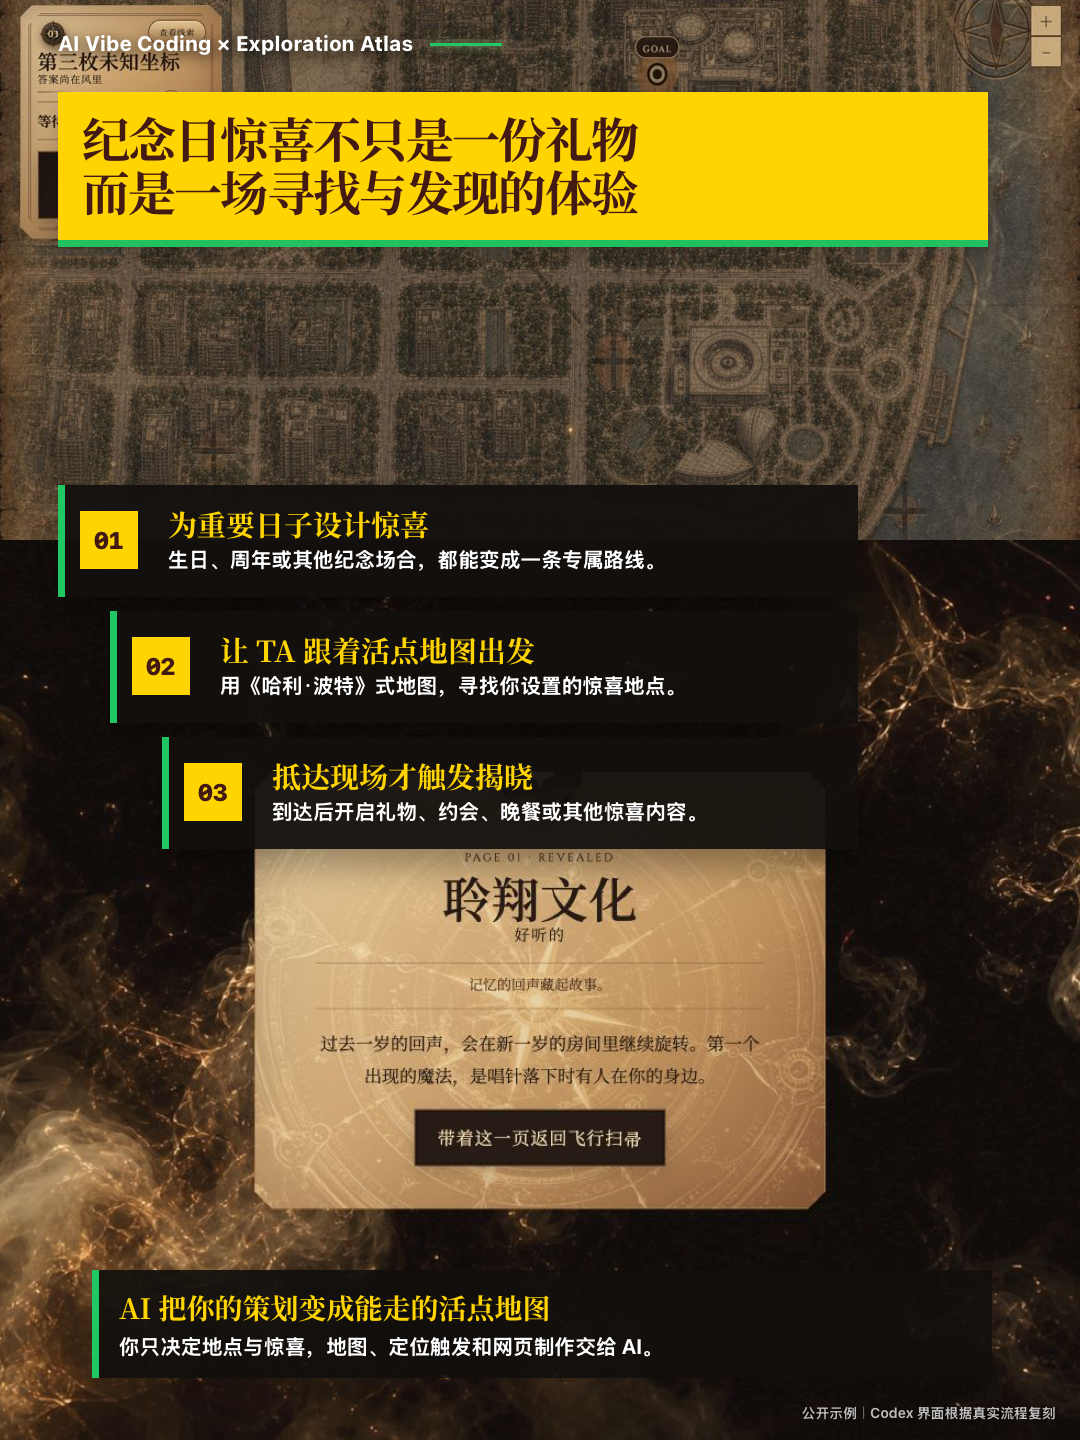
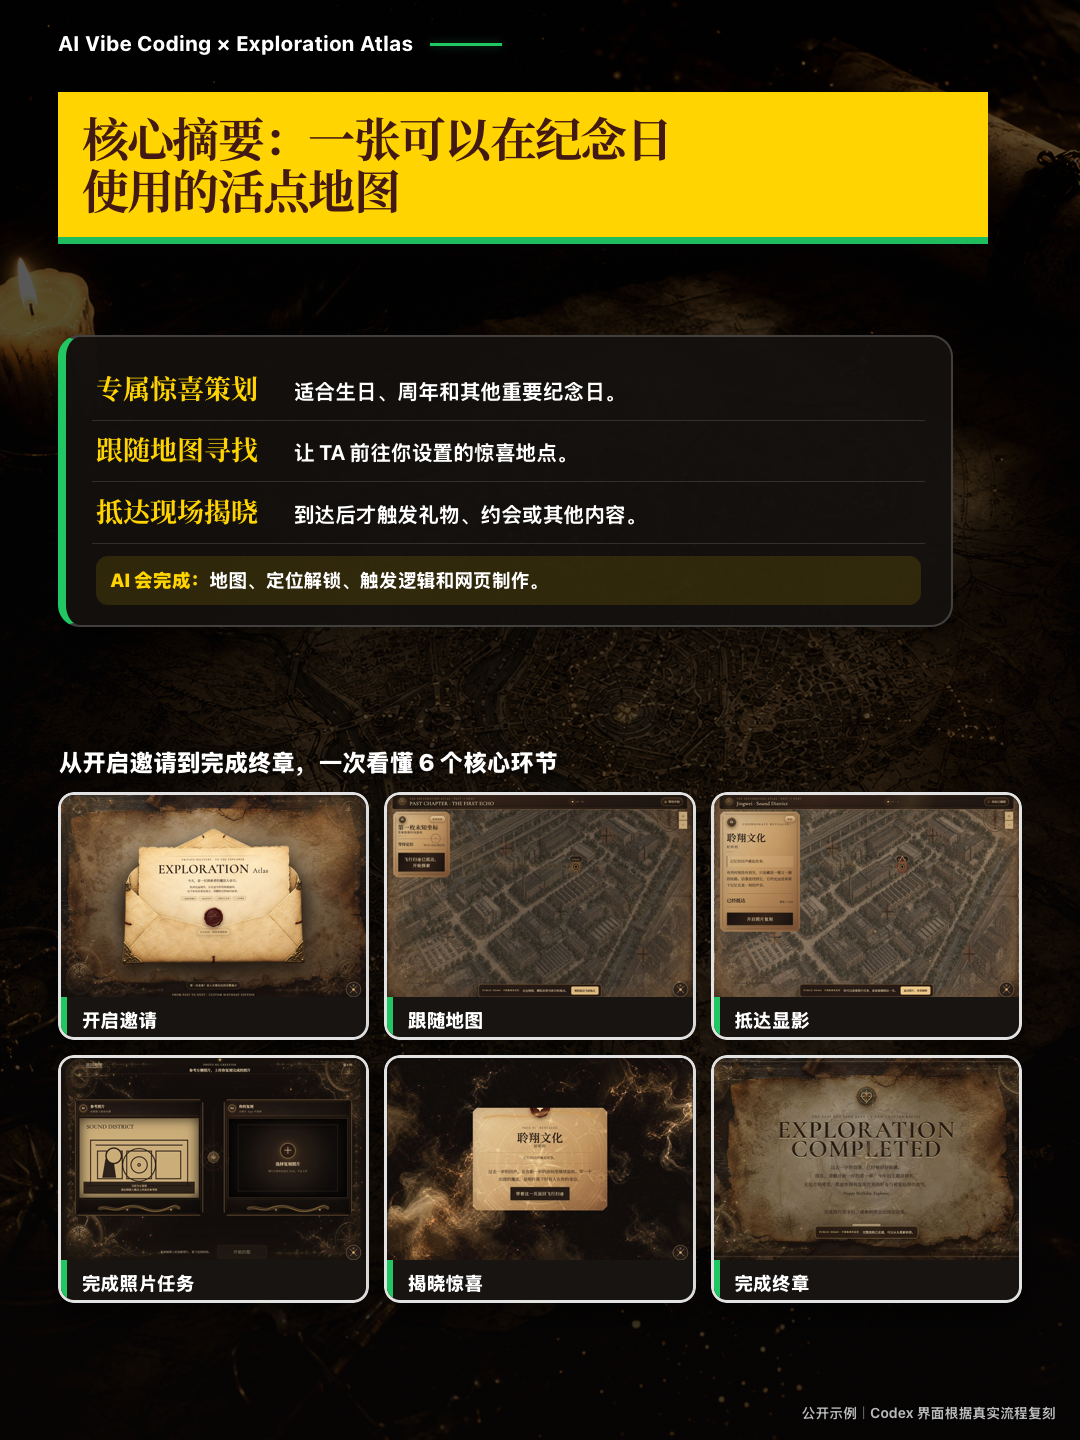
Summarize the six-part living map experience

diff --git a/docs/AI_VIBE_CODING_TUTORIAL.md b/docs/AI_VIBE_CODING_TUTORIAL.md
@@ -18,11 +18,11 @@
 
 ![开源活点地图教程封面](tutorial/01-cover.png)
 
-## 02｜理解它能带来什么
+## 02｜核心摘要
 
 ![活点地图核心能力](tutorial/02-living-map-core.png)
 
-它是一种纪念日惊喜策划方式：生日、周年或其他重要日子都可以使用。TA 会跟着《哈利·波特》式活点地图寻找你设置的地点，抵达后才触发礼物、约会、晚餐或其他惊喜内容，在当天完整经历寻找、抵达和发现。
+这是一张可以在纪念日使用的活点地图。它适合生日、周年和其他重要日子：TA 从开启邀请开始，跟随地图寻找你设置的地点，抵达后触发照片任务与惊喜揭晓，最后完成整场探索。你决定地点与惊喜，AI 负责地图、定位解锁、触发逻辑和网页制作。
 
 ## 03｜在 GitHub 找到项目
 
